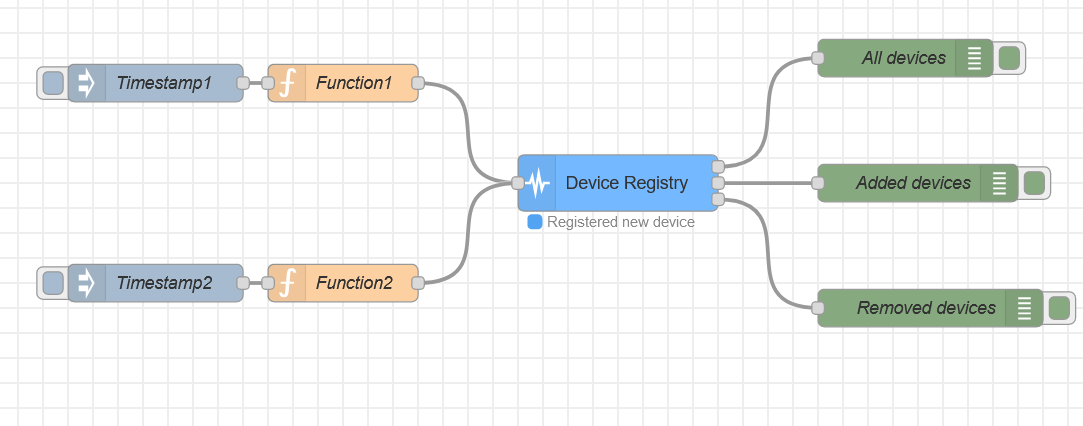
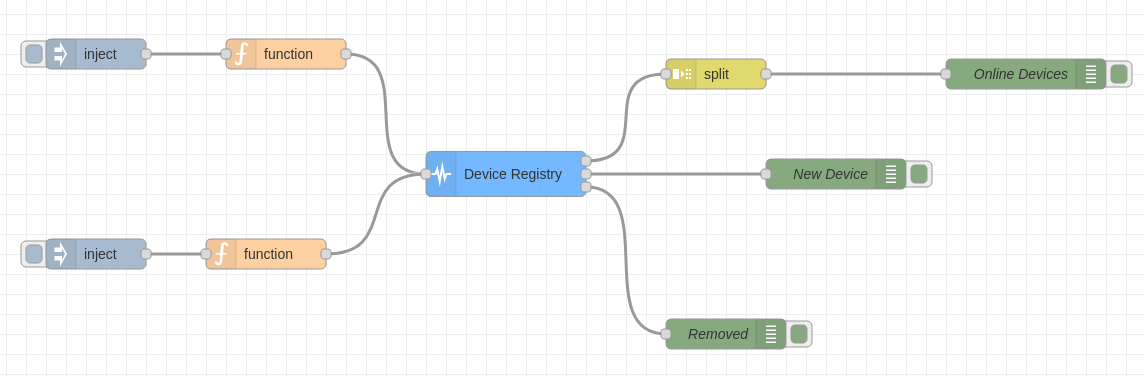
docs(device-registry): Update node's readme, changelog and add node flow

diff --git a/device-registry/device-registry.js b/device-registry/device-registry.js
@@ -1,5 +1,3 @@
-const SentryLog = require("../utils/sentry-log.js");
-
 let internalDeviceList = new Map();
 let receivedDevice;
 
@@ -54,7 +52,6 @@ module.exports = function (RED) {
 
   function DeviceRegistry(config) {
     RED.nodes.createNode(this, config);
-    SentryLog.sendMessage("device registry was deployed");
 
     let node = this;
 

diff --git a/README.md b/README.md
@@ -93,11 +93,11 @@ Checks if an action occurs within a given time frame. This node is not implement
 
 Checks for timing issues on data inputs. There are 3 outputs that refer to data comming on expected time, too slow or too fast. A frequency in seconds along with a margin (float: 0-1) should be provided.
 
-## Todo Nodes
-
 ### :package: device-registry
 
-Store a list of the available devices in the network.
+All the devices that are reachable can communicate with this device in order to store their information and current state.
+
+## Todo Nodes
 
 ### :package: internal-state
 

diff --git a/CHANGELOG.md b/CHANGELOG.md
@@ -24,6 +24,7 @@ The main functionalities added are:
 
 - Added unit tests and documentation for the Redundancy node #37
 - Added HTTP Aware node #76
+- Added unit tests and documentation for the Device Registry node #37
 
 #### Removed
 
@@ -35,6 +36,10 @@ The main functionalities added are:
 No progress because of Christmas
 
 ### Week of 16/12/2020 - 22/12/2020
+
+### Added
+
+- Added Device Registry node #40
 
 #### Changed
 

diff --git a/device-registry/README.md b/device-registry/README.md
@@ -30,4 +30,4 @@ All the devices that are reachable can communicate with this device in order to 
 
 ### Example Flow
 
-![](../samples/flow-control.png)
+![](../samples/device-registry.png)
